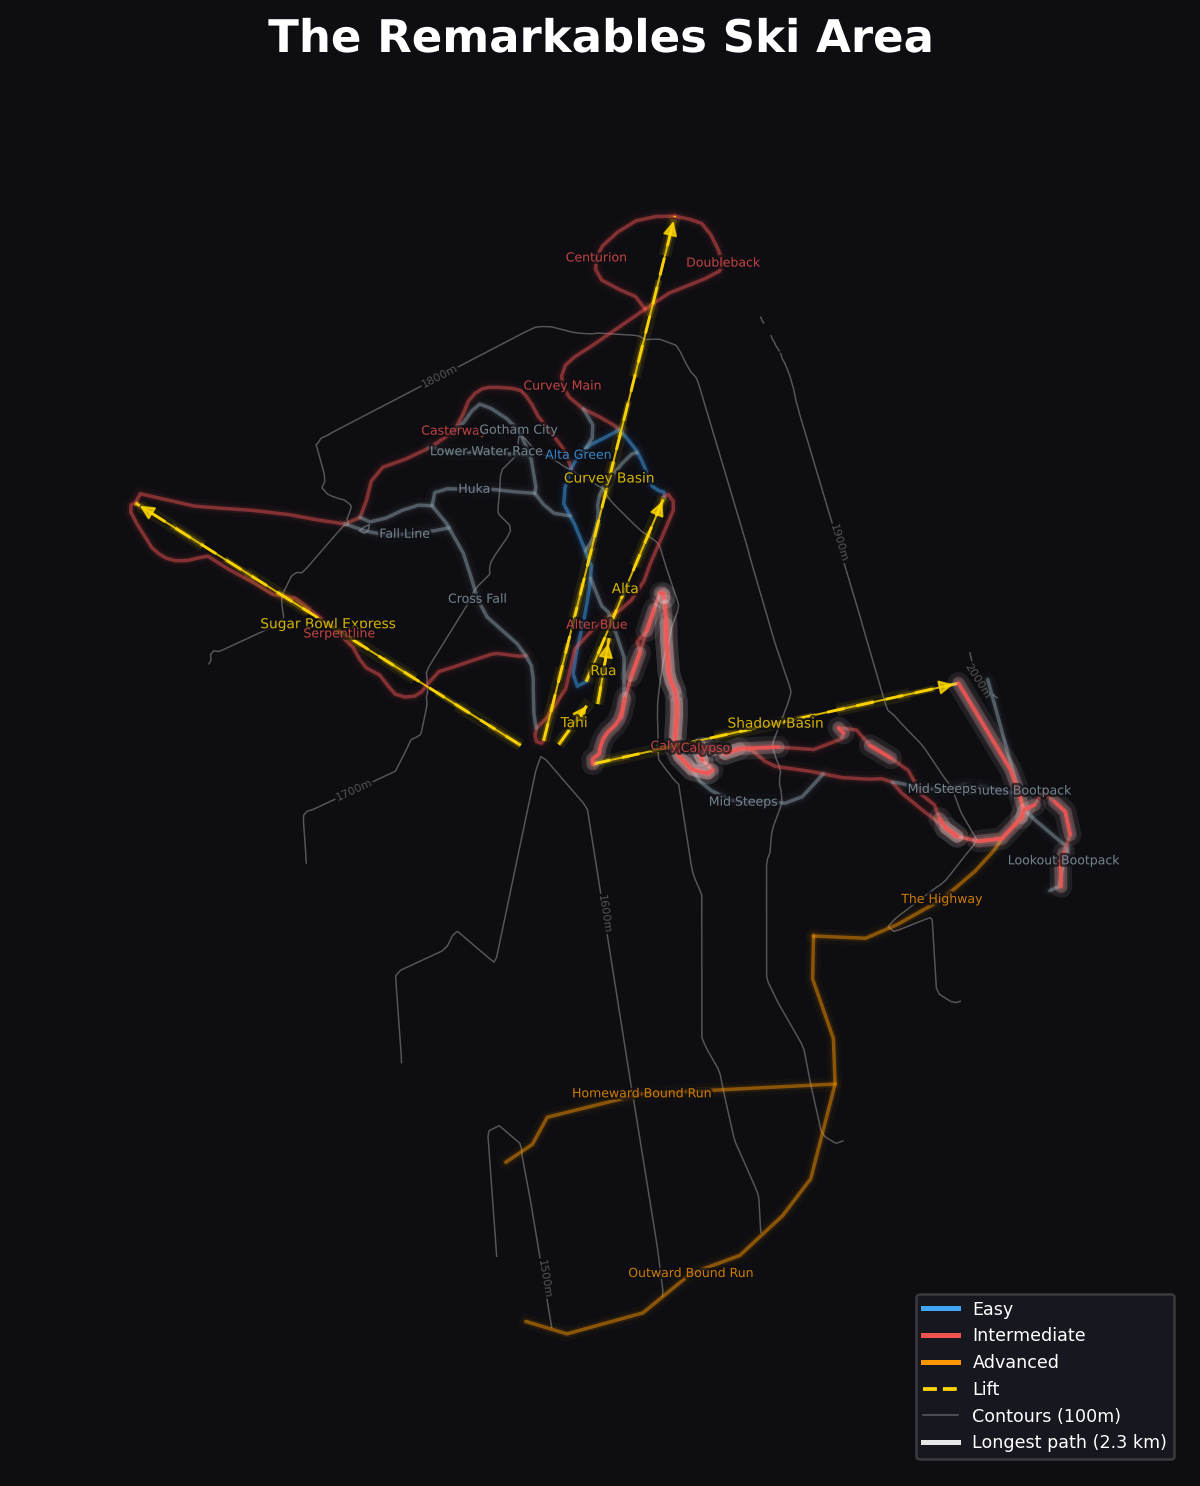
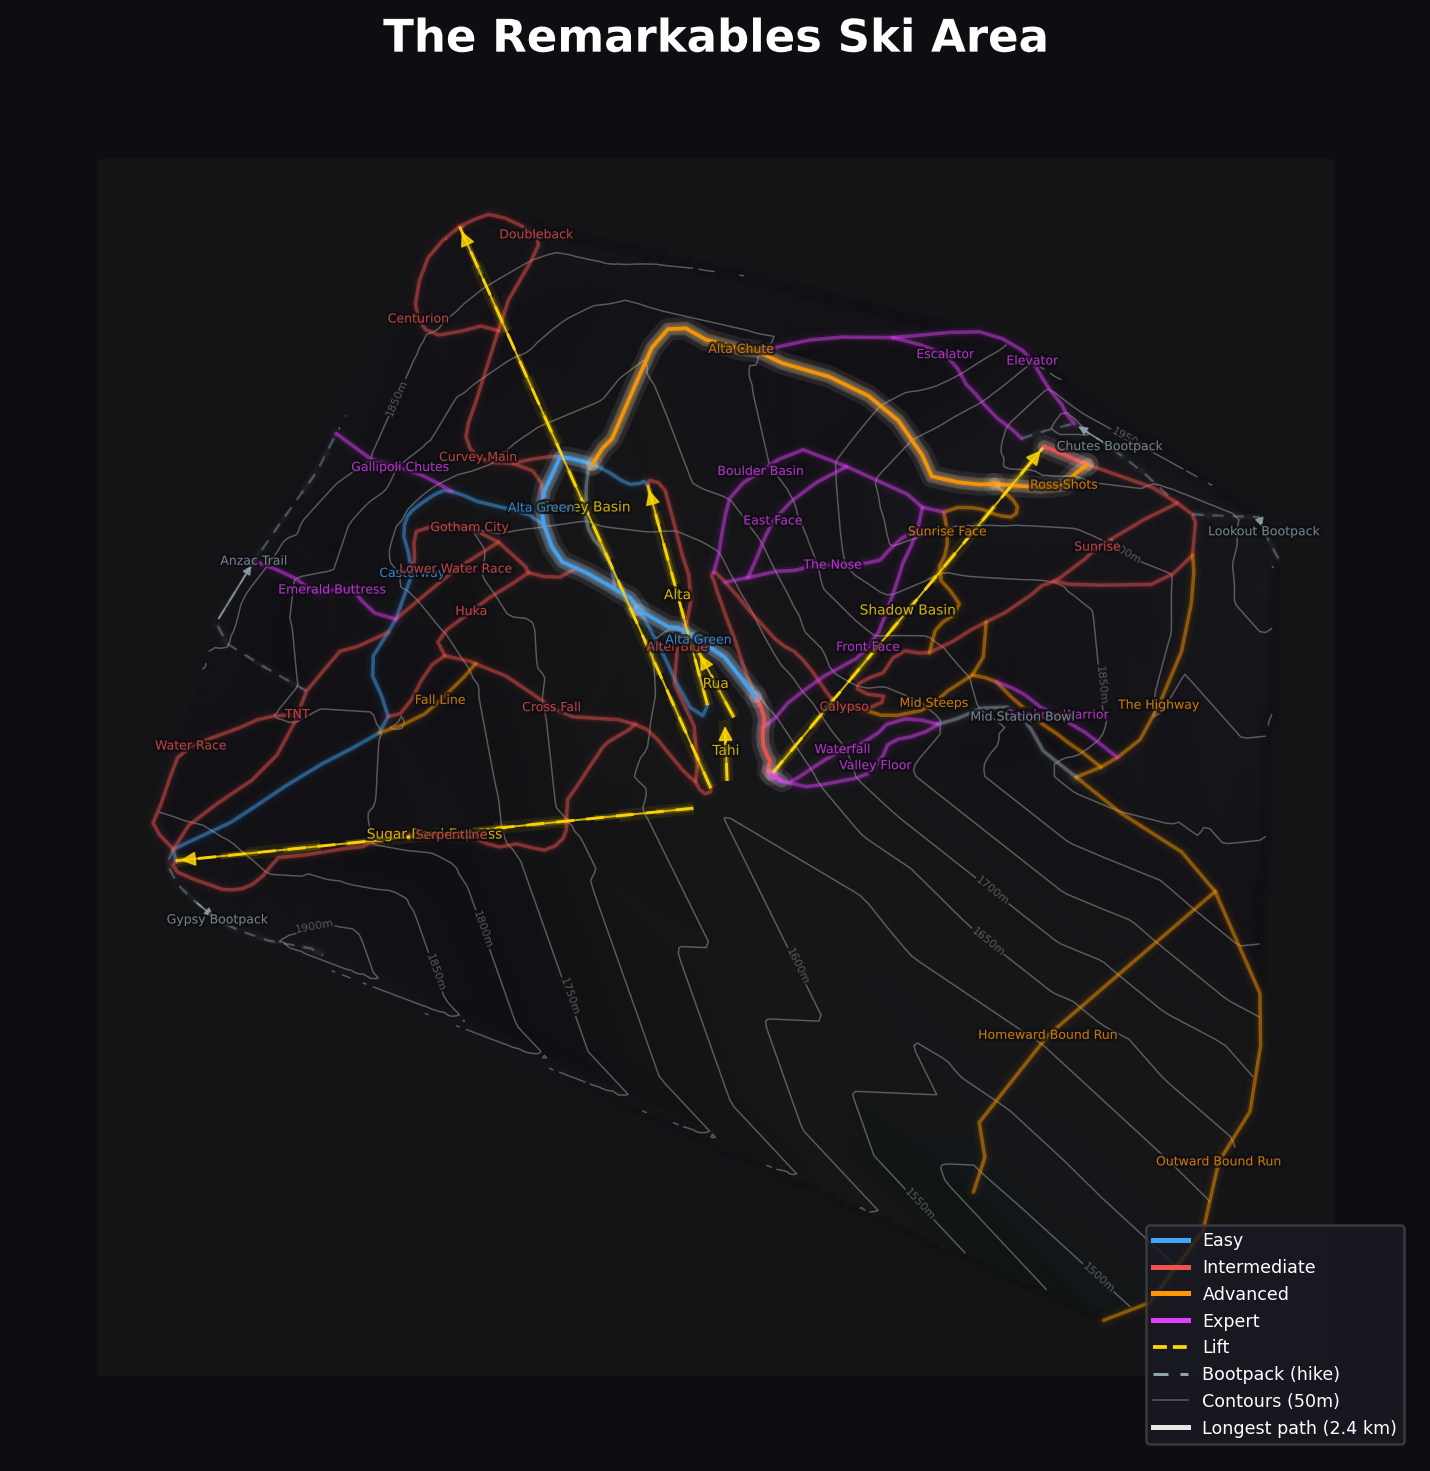
Adding in bootpacks logic and improving the depth visuals

diff --git a/scripts/ski_network_graph.py b/scripts/ski_network_graph.py
@@ -21,6 +21,7 @@ matplotlib.rcParams["font.family"] = ["DejaVu Sans", "IPAexGothic", "AR PL UMing
 import matplotlib.pyplot as plt  # noqa: E402
 import matplotlib.patheffects as pe  # noqa: E402
 import matplotlib.lines as mlines  # noqa: E402
+from matplotlib.colors import LightSource, Normalize  # noqa: E402
 import duckdb  # noqa: E402
 try:
     from scipy.interpolate import griddata as _scipy_griddata
@@ -69,6 +70,12 @@ LIFT_GLOW_LAYERS = [
     (2.5, 0.20),
     (1.2, 0.90),
 ]
+HIKE_GLOW_LAYERS = [
+    (4.0, 0.05),
+    (2.0, 0.12),
+    (0.9, 0.70),
+]
+HIKE_DASHES = (5, 4)   # dash on / off in points
 
 
 def _safe_text(s):
@@ -120,8 +127,8 @@ def _rotate(xs, ys, angle: float):
     return c * xs - s * ys, s * xs + c * ys
 
 
-def _draw_topo(ax, xs, ys, zs, interval: int = 100):
-    """Interpolate a grid from scattered run-point elevations and draw faint contour lines."""
+def _draw_topo(ax, xs, ys, zs, interval: int = 50):
+    """Interpolate a grid from scattered run-point elevations, draw hillshading and contour lines."""
     if not _HAS_SCIPY:
         return
     valid = ~(np.isnan(xs) | np.isnan(ys) | np.isnan(zs))
@@ -138,6 +145,31 @@ def _draw_topo(ax, xs, ys, zs, interval: int = 100):
         yv.min() - pad_y : yv.max() + pad_y : 200j,
     ]
     gz = _scipy_griddata((xv, yv), zv, (gx, gy), method="linear")
+    extent = [float(gx.min()), float(gx.max()), float(gy.min()), float(gy.max())]
+
+    # ── hillshade + terrain tint ─────────────────────────────────────────────
+    # gz is (nx, ny) from mgrid; imshow expects (ny, nx), so transpose.
+    gz_t = gz.T
+    gz_mean = float(np.nanmean(gz_t)) if not np.all(np.isnan(gz_t)) else 0.0
+    gz_filled = np.where(np.isnan(gz_t), gz_mean, gz_t)
+    dx_m = (float(gx.max()) - float(gx.min())) / 199.0
+    dy_m = (float(gy.max()) - float(gy.min())) / 199.0
+    ls = LightSource(azdeg=315, altdeg=40)
+    # Shift vmin below z_min so the data maps into the brown/white alpine
+    # portion of the terrain palette rather than the sea-level blues.
+    shade_rgb = ls.shade(
+        gz_filled,
+        cmap=plt.cm.terrain,
+        norm=Normalize(vmin=z_min - (z_max - z_min) * 0.5, vmax=z_max),
+        blend_mode="soft",
+        vert_exag=3.0,
+        dx=dx_m,
+        dy=dy_m,
+    )
+    ax.imshow(shade_rgb, extent=extent, origin="lower", aspect="auto",
+              alpha=0.04, zorder=0, interpolation="bilinear")
+
+    # ── contour lines ────────────────────────────────────────────────────────
     levels = np.arange(
         math.ceil(z_min / interval) * interval,
         z_max + interval,
@@ -234,7 +266,7 @@ def render_resort(con, resort_name: str, country_code: str = "",
         FROM camonairflow.ski_runs.ski_run_points p
         JOIN camonairflow.ski_runs.ski_runs r ON p.osm_id = r.osm_id
         WHERE p.resort = ?
-        and r.piste_type = 'downhill'
+        and r.piste_type IN ('downhill', 'hike')
         ORDER BY p.osm_id, p.point_index
     """, [resort_name]).df()
 
@@ -324,13 +356,43 @@ def render_resort(con, resort_name: str, country_code: str = "",
         pt_idx = group["point_index"].values
         diff = group["difficulty"].iloc[0]
         color = _safe_color(diff)
+        is_hike = str(group["piste_type"].iloc[0]).lower() == "hike"
 
         touched_segs = path_segments.get(int(osm_id))
 
-        # Every run drawn dimmed as background
-        for lw, alpha in GLOW_LAYERS:
-            ax.plot(xs, ys, color=color, lw=lw, alpha=alpha * 0.55,
-                    solid_capstyle="round", solid_joinstyle="round", zorder=2)
+        if is_hike:
+            # Bootpack / hike: dashed lines with an uphill direction arrow
+            for lw, alpha in HIKE_GLOW_LAYERS:
+                ax.plot(xs, ys, color=color, lw=lw, alpha=alpha * 0.60,
+                        linestyle="--", dashes=HIKE_DASHES,
+                        solid_capstyle="butt", zorder=2)
+            # Arrow near midpoint pointing uphill
+            elev_arr = group["elevation_smoothed_m"].values.astype(float)
+            mid = max(len(xs) // 2, 1)
+            e0 = elev_arr[0] if not np.isnan(elev_arr[0]) else 0.0
+            e_last = elev_arr[-1] if not np.isnan(elev_arr[-1]) else 0.0
+            if e_last > e0:
+                arr_x0, arr_y0 = xs[mid - 1], ys[mid - 1]
+                arr_x1, arr_y1 = xs[mid], ys[mid]
+            else:
+                arr_x0, arr_y0 = xs[mid], ys[mid]
+                arr_x1, arr_y1 = xs[mid - 1], ys[mid - 1]
+            ax.annotate(
+                "", xy=(arr_x1, arr_y1), xytext=(arr_x0, arr_y0),
+                arrowprops=dict(
+                    arrowstyle="-|>",
+                    color=color,
+                    lw=0.7,
+                    mutation_scale=7,
+                    alpha=0.80,
+                ),
+                zorder=3,
+            )
+        else:
+            # Regular downhill run — solid glow layers
+            for lw, alpha in GLOW_LAYERS:
+                ax.plot(xs, ys, color=color, lw=lw, alpha=alpha * 0.55,
+                        solid_capstyle="round", solid_joinstyle="round", zorder=2)
 
         if touched_segs:
             # Overlay only the specific segment ranges that are on the path
@@ -340,12 +402,32 @@ def render_resort(con, resort_name: str, country_code: str = "",
                 pxs, pys = xs[mask], ys[mask]
                 if len(pxs) < 2:
                     continue
-                for lw, alpha, c in HIGHLIGHT_LAYERS:
-                    ax.plot(pxs, pys, color=c, lw=lw, alpha=alpha,
-                            solid_capstyle="round", solid_joinstyle="round", zorder=3)
-                for lw, alpha in GLOW_LAYERS:
-                    ax.plot(pxs, pys, color=color, lw=lw, alpha=alpha,
-                            solid_capstyle="round", solid_joinstyle="round", zorder=3)
+                if is_hike:
+                    # Highlighted hike segment: brighter dashes + white uphill arrow
+                    for lw, alpha in HIKE_GLOW_LAYERS:
+                        ax.plot(pxs, pys, color=color, lw=lw, alpha=alpha,
+                                linestyle="--", dashes=HIKE_DASHES,
+                                solid_capstyle="butt", zorder=4)
+                    hmid = max(len(pxs) // 2, 1)
+                    ax.annotate(
+                        "", xy=(pxs[hmid], pys[hmid]),
+                        xytext=(pxs[hmid - 1], pys[hmid - 1]),
+                        arrowprops=dict(
+                            arrowstyle="-|>",
+                            color="white",
+                            lw=0.8,
+                            mutation_scale=9,
+                            alpha=0.90,
+                        ),
+                        zorder=5,
+                    )
+                else:
+                    for lw, alpha, c in HIGHLIGHT_LAYERS:
+                        ax.plot(pxs, pys, color=c, lw=lw, alpha=alpha,
+                                solid_capstyle="round", solid_joinstyle="round", zorder=3)
+                    for lw, alpha in GLOW_LAYERS:
+                        ax.plot(pxs, pys, color=color, lw=lw, alpha=alpha,
+                                solid_capstyle="round", solid_joinstyle="round", zorder=3)
 
     # ── 10. draw lifts ─────────────────────────────────────────────────────────
     for lp in lifts_projected:
@@ -414,9 +496,15 @@ def render_resort(con, resort_name: str, country_code: str = "",
         mlines.Line2D([0], [0], color=LIFT_COLOR, lw=1.5,
                       linestyle="--", label="Lift")
     )
+    if not runs_df.empty and (runs_df["piste_type"] == "hike").any():
+        legend_items.append(
+            mlines.Line2D([0], [0], color="#90A4AE", lw=1.2,
+                          linestyle="--", dashes=HIKE_DASHES,
+                          label="Bootpack (hike)")
+        )
     legend_items.append(
         mlines.Line2D([0], [0], color="white", lw=0.6,
-                      alpha=0.30, label="Contours (100m)")
+                      alpha=0.30, label="Contours (50m)")
     )
     if path_dist_m > 0:
         legend_items.append(

diff --git a/dbt/models/staging/staging_all_resorts_longest_path.py b/dbt/models/staging/staging_all_resorts_longest_path.py
@@ -108,6 +108,7 @@ def build_segment_graph(
             "length_m": seg["length_m"],
             "vertical_drop": seg["vertical_drop_m"],
             "run_name": seg["run_name"],
+            "piste_type": seg["piste_type"] if "piste_type" in seg.index and pd.notna(seg["piste_type"]) else "downhill",
             "next_segments": set(),
         }
         if fn is not None:
@@ -224,6 +225,7 @@ def find_longest_path_for_resort(
                 "runs": [seg["run_id"]],
                 "run_names": [seg["run_name"]],
                 "visited": {start_seg_id},
+                "hike_runs_used": set(),
                 "distance": seg["length_m"],
                 "vertical": vert,
                 "lift_id": lift_id,
@@ -240,6 +242,15 @@ def find_longest_path_for_resort(
 
             nexts = seg_data["next_segments"] - state["visited"]
 
+            # Filter out hike segments whose bootpack run has already been traversed
+            nexts = {
+                nid for nid in nexts
+                if not (
+                    segment_graph[nid]["piste_type"] == "hike"
+                    and segment_graph[nid]["run_id"] in state["hike_runs_used"]
+                )
+            }
+
             if not nexts:
                 # terminal — compare to best
                 if state["distance"] > best_dist:
@@ -250,11 +261,15 @@ def find_longest_path_for_resort(
             for next_id in nexts:
                 ns = segment_graph[next_id]
                 nv = ns["vertical_drop"] if pd.notna(ns["vertical_drop"]) else 0.0
+                next_hike_used = state["hike_runs_used"]
+                if ns["piste_type"] == "hike":
+                    next_hike_used = state["hike_runs_used"] | {ns["run_id"]}
                 stack.append((next_id, {
                     "segments": state["segments"] + [next_id],
                     "runs": state["runs"] + [ns["run_id"]],
                     "run_names": state["run_names"] + [ns["run_name"]],
                     "visited": state["visited"] | {next_id},
+                    "hike_runs_used": next_hike_used,
                     "distance": state["distance"] + ns["length_m"],
                     "vertical": state["vertical"] + nv,
                     "lift_id": state["lift_id"],

diff --git a/pipelines/Ski_runs.py b/pipelines/Ski_runs.py
@@ -141,7 +141,7 @@ logger = logging.getLogger(__name__)
 BASE_URL = "https://overpass-api.de/api/interpreter"
 DESTINATION_DATABASE = "camonairflow"
 MIN_LIFT_LENGTH_M = 100
-PISTE_TYPE_REGEX = "^(downhill|nordic|skitour|snow_park|sled|connection)$"
+PISTE_TYPE_REGEX = "^(downhill|nordic|skitour|snow_park|sled|connection|hike)$"
 IGNORED_AERIALWAY_REGEX = "^(station|goods)$"
 SMOOTHING_GRADE_THRESHOLD = math.tan(math.radians(50)) 
 MANUAL_QUARANTINED_OSM_IDS_BY_RESORT = {